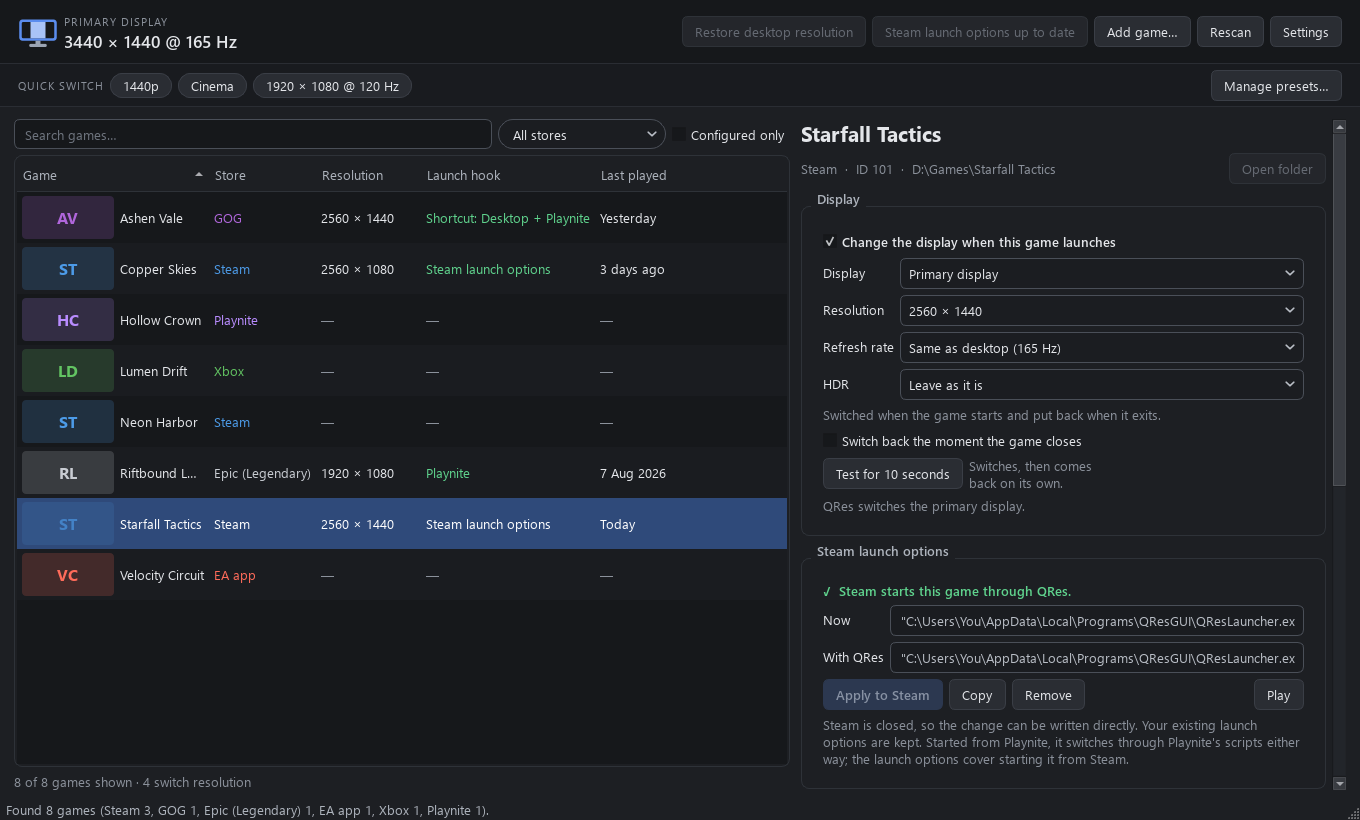
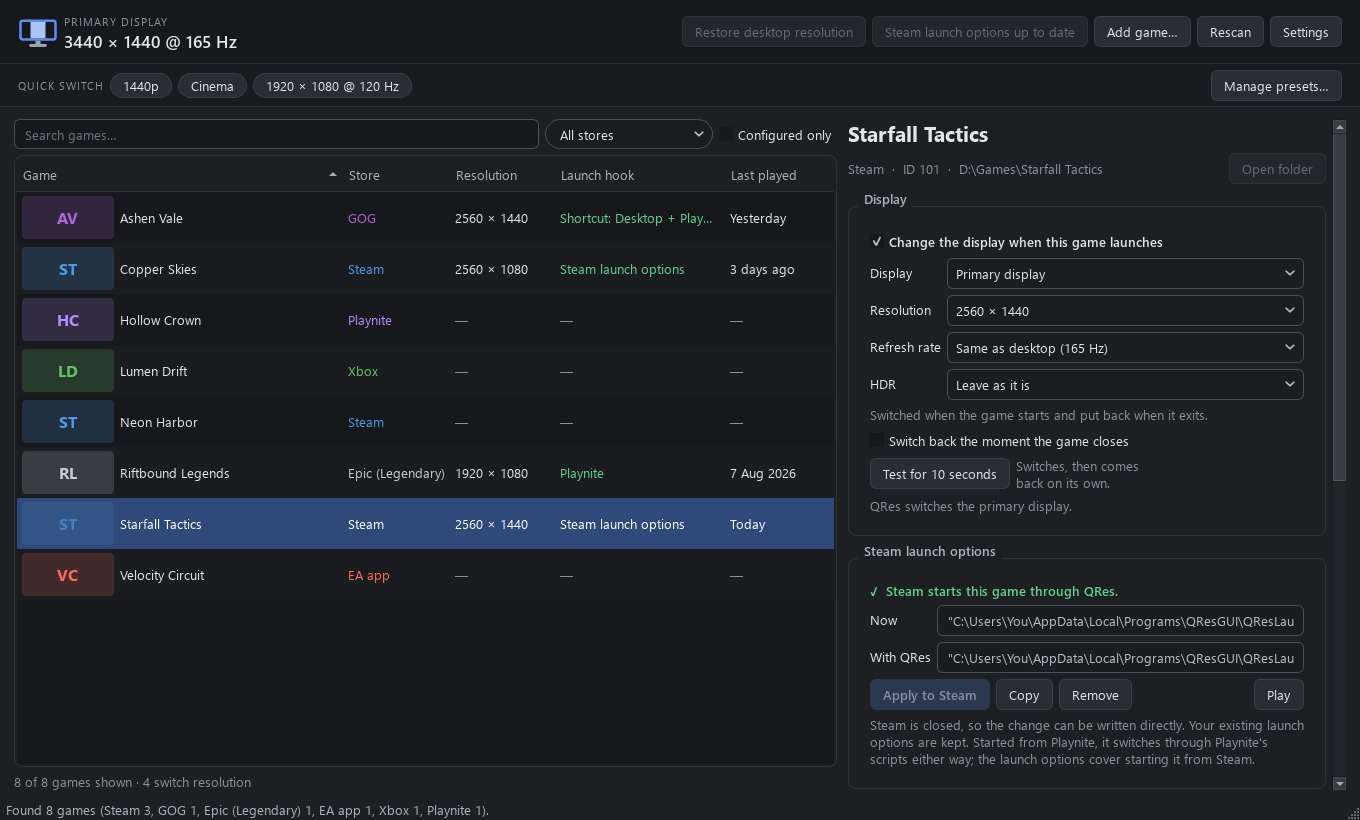
Keep game names readable next to the Last played column
Found in the 1.8.0 QA pass on the real library: at the default window
size every Master Collection entry read "METAL GEAR ...". The Launch hook
column now opens at its contents up to 170 px (draggable, full text on
hover), the last column no longer stretches, names get a tooltip, and the
list starts a little wider. Also moves test_updates' imports to the top.

diff --git a/qres_gui/gui/main_window.py b/qres_gui/gui/main_window.py
@@ -31,7 +31,8 @@ ICON_SIZE = QSize(92, 43)
 ROLE_ID = Qt.ItemDataRole.UserRole
 ROLE_SORT = Qt.ItemDataRole.UserRole + 1     # what a column sorts by, when not its text
 COLUMNS = ["Game", "Store", "Resolution", "Launch hook", "Last played"]
-COL_PLAYED = 4
+COL_HOOK, COL_PLAYED = 3, 4
+HOOK_WIDTH = 170     # the widest the Launch hook column opens at, so long states don't squeeze names
 
 
 class GameItem(QTreeWidgetItem):
@@ -171,6 +172,10 @@ class MainWindow(QMainWindow):
         header.setSectionResizeMode(0, QHeaderView.ResizeMode.Stretch)
         for column in range(1, len(COLUMNS)):
             header.setSectionResizeMode(column, QHeaderView.ResizeMode.ResizeToContents)
+        # Sized to its contents up to a limit instead (_fit_columns), and draggable: its longest
+        # states would otherwise leave game names as "METAL GEAR ..." in a normal-sized window.
+        header.setSectionResizeMode(COL_HOOK, QHeaderView.ResizeMode.Interactive)
+        header.setStretchLastSection(False)   # the spare room goes to Game, not Last played
         sort = self.cfg.get("list_sort") or {}
         column = sort.get("column") if sort.get("column") in range(len(COLUMNS)) else 0
         self._sort_column = column
@@ -192,7 +197,7 @@ class MainWindow(QMainWindow):
         splitter.addWidget(self.detail)
         splitter.setStretchFactor(0, 3)
         splitter.setStretchFactor(1, 2)
-        splitter.setSizes([780, 560])
+        splitter.setSizes([840, 520])
 
         body = QWidget()
         bl = QVBoxLayout(body)
@@ -776,6 +781,7 @@ class MainWindow(QMainWindow):
             self.items[game.id] = item
             self._fill_row(game)
         self.tree.setSortingEnabled(True)
+        self._fit_columns()
         self._apply_filter()
         self._update_sync_button()
         if selected in self.items:
@@ -790,6 +796,7 @@ class MainWindow(QMainWindow):
         # Only ever on screen while "Show" is on, so it's worth saying which ones they are.
         hidden = game.id in self.hidden_ids()
         item.setText(0, f"{game.name}  (hidden)" if hidden else game.name)
+        item.setToolTip(0, game.name)   # long names are cut short in the column
         item.setData(0, Qt.ItemDataRole.ForegroundRole, QBrush(QColor(theme.MUTED)) if hidden else None)
         item.setText(1, game.store_label)
         item.setForeground(1, QBrush(QColor(theme.STORE_COLORS.get(game.store, theme.MUTED))))
@@ -802,9 +809,13 @@ class MainWindow(QMainWindow):
         item.setForeground(2, QBrush(QColor("#e4e6ea" if enabled else theme.MUTED)))
         text, kind = self.hook_status(game, entry)
         item.setText(3, text)
+        item.setToolTip(COL_HOOK, text)
         color = {"ok": theme.OK, "warn": theme.WARN}.get(kind, theme.MUTED)
         item.setForeground(3, QBrush(QColor(color)))
         self._fill_played(game)
+
+    def _fit_columns(self) -> None:
+        self.tree.setColumnWidth(COL_HOOK, min(self.tree.sizeHintForColumn(COL_HOOK) + 12, HOOK_WIDTH))
 
     # --- last played ------------------------------------------------------------
 

diff --git a/tests/test_gui.py b/tests/test_gui.py
@@ -189,6 +189,17 @@ def test_sorting_by_last_played_puts_the_latest_first_and_is_remembered(win, env
         again.close()
 
 
+def test_game_names_get_the_room(win, env):
+    """Long hook states are capped and Last played doesn't stretch, so names aren't cut to "METAL GEAR ..."."""
+    env["steam"].options = {"10": "x" * 200}             # launch options QRes didn't write: a long state
+    win._reload_launch_options()
+    win.rescan()
+    header = win.tree.header()
+    assert not header.stretchLastSection()
+    assert win.tree.columnWidth(main_window.COL_HOOK) <= main_window.HOOK_WIDTH
+    assert win.items["steam:10"].toolTip(0) == "Counter Test"
+
+
 def test_a_launch_shows_up_without_a_rescan(win):
     assert win.items["gog:1453375253"].text(main_window.COL_PLAYED) == "—"
     played.record("gog:1453375253")                     # what the launcher does as a game starts

diff --git a/tests/test_updates.py b/tests/test_updates.py
@@ -1,7 +1,11 @@
-"""The update check: picking the newest release, and the launcher's diagnostic command."""
+"""The update check and in-app install: picking the newest release, checking and unpacking its zip, and the hand-over."""
 
+import hashlib
 import io
 import json
+import subprocess
+import sys
+import zipfile
 
 import pytest
 
@@ -66,11 +70,6 @@ def test_launcher_check_update_command(monkeypatch, tmp_path):
 
 
 # --- installing an update -----------------------------------------------------------
-
-import hashlib  # noqa: E402
-import subprocess  # noqa: E402
-import sys  # noqa: E402
-import zipfile  # noqa: E402
 
 ZIP_URL = updates.DOWNLOADS + "v9.9.9/QResGUI-9.9.9-win64.zip"
 DIGEST = "sha256:" + "ab" * 32

diff --git a/CHANGELOG.md b/CHANGELOG.md
@@ -23,7 +23,9 @@ it has been proven on real hardware.
   heading sorts the most recently played first, and the list now remembers
   which column it was sorted by. Launches are noted in
   `%APPDATA%\QResGUI\played.json`, which backups leave out as this PC's own
-  history.
+  history. Game names keep most of the list's width: the Launch hook column
+  opens no wider than it needs up to a limit (drag it wider, or hover for the
+  whole text), and hovering a cut-short name shows all of it.
 
 ### Fixed
 - **Games that only ship a Unity-made launcher are no longer called Unity
